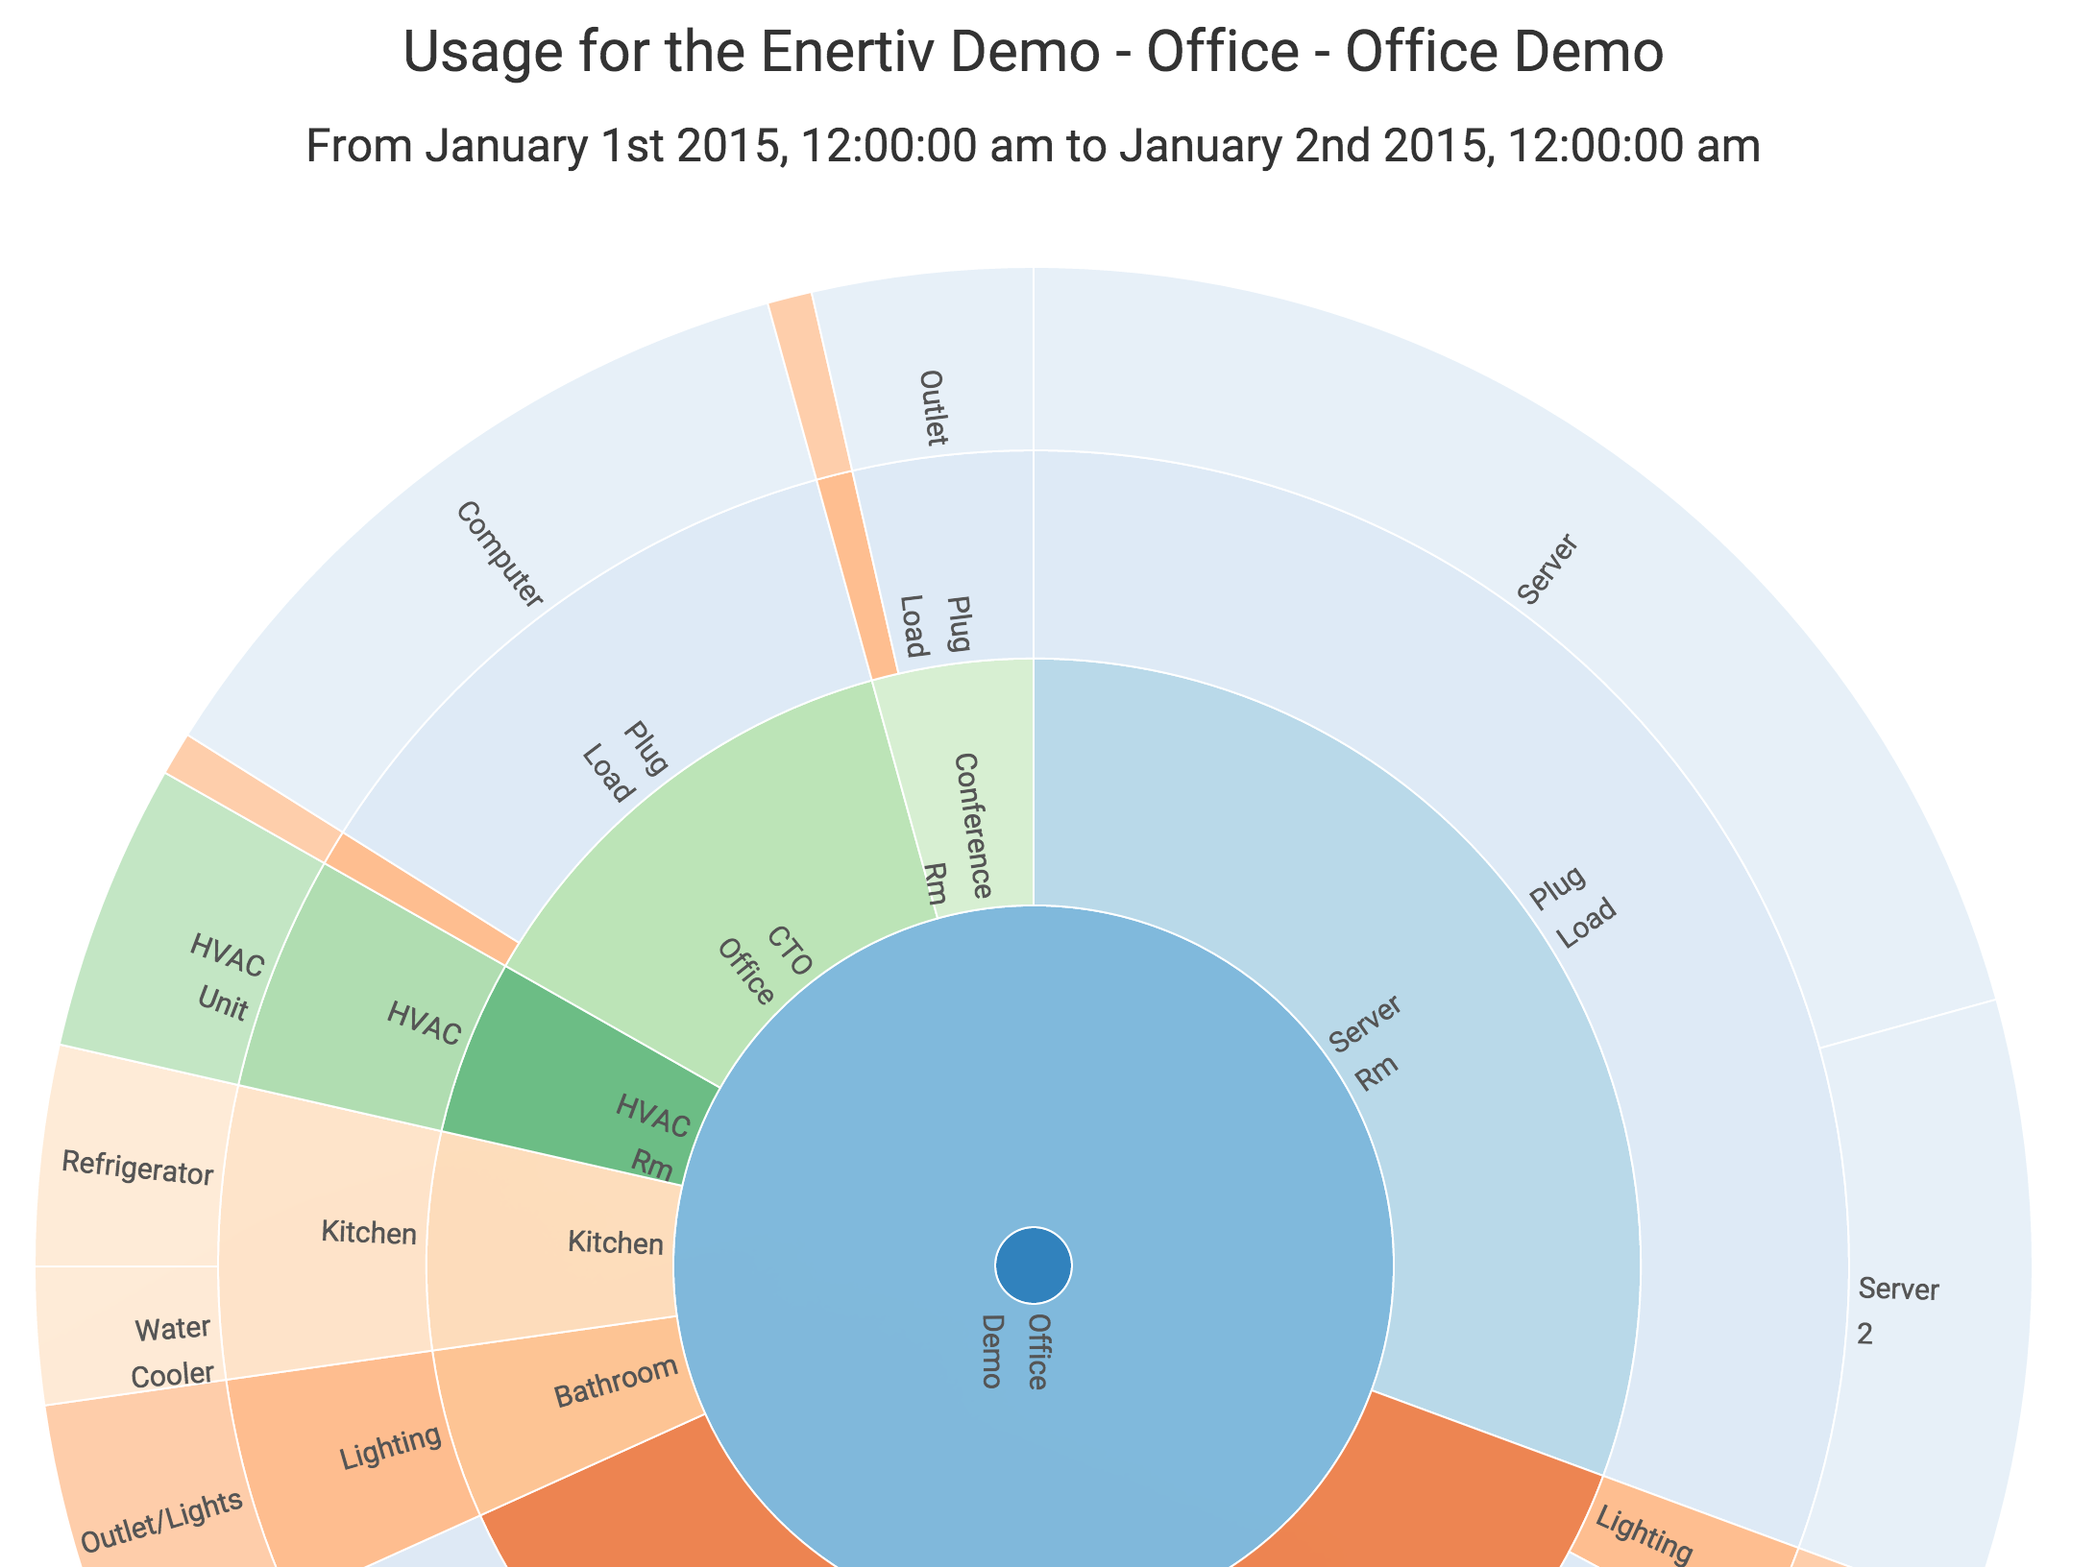
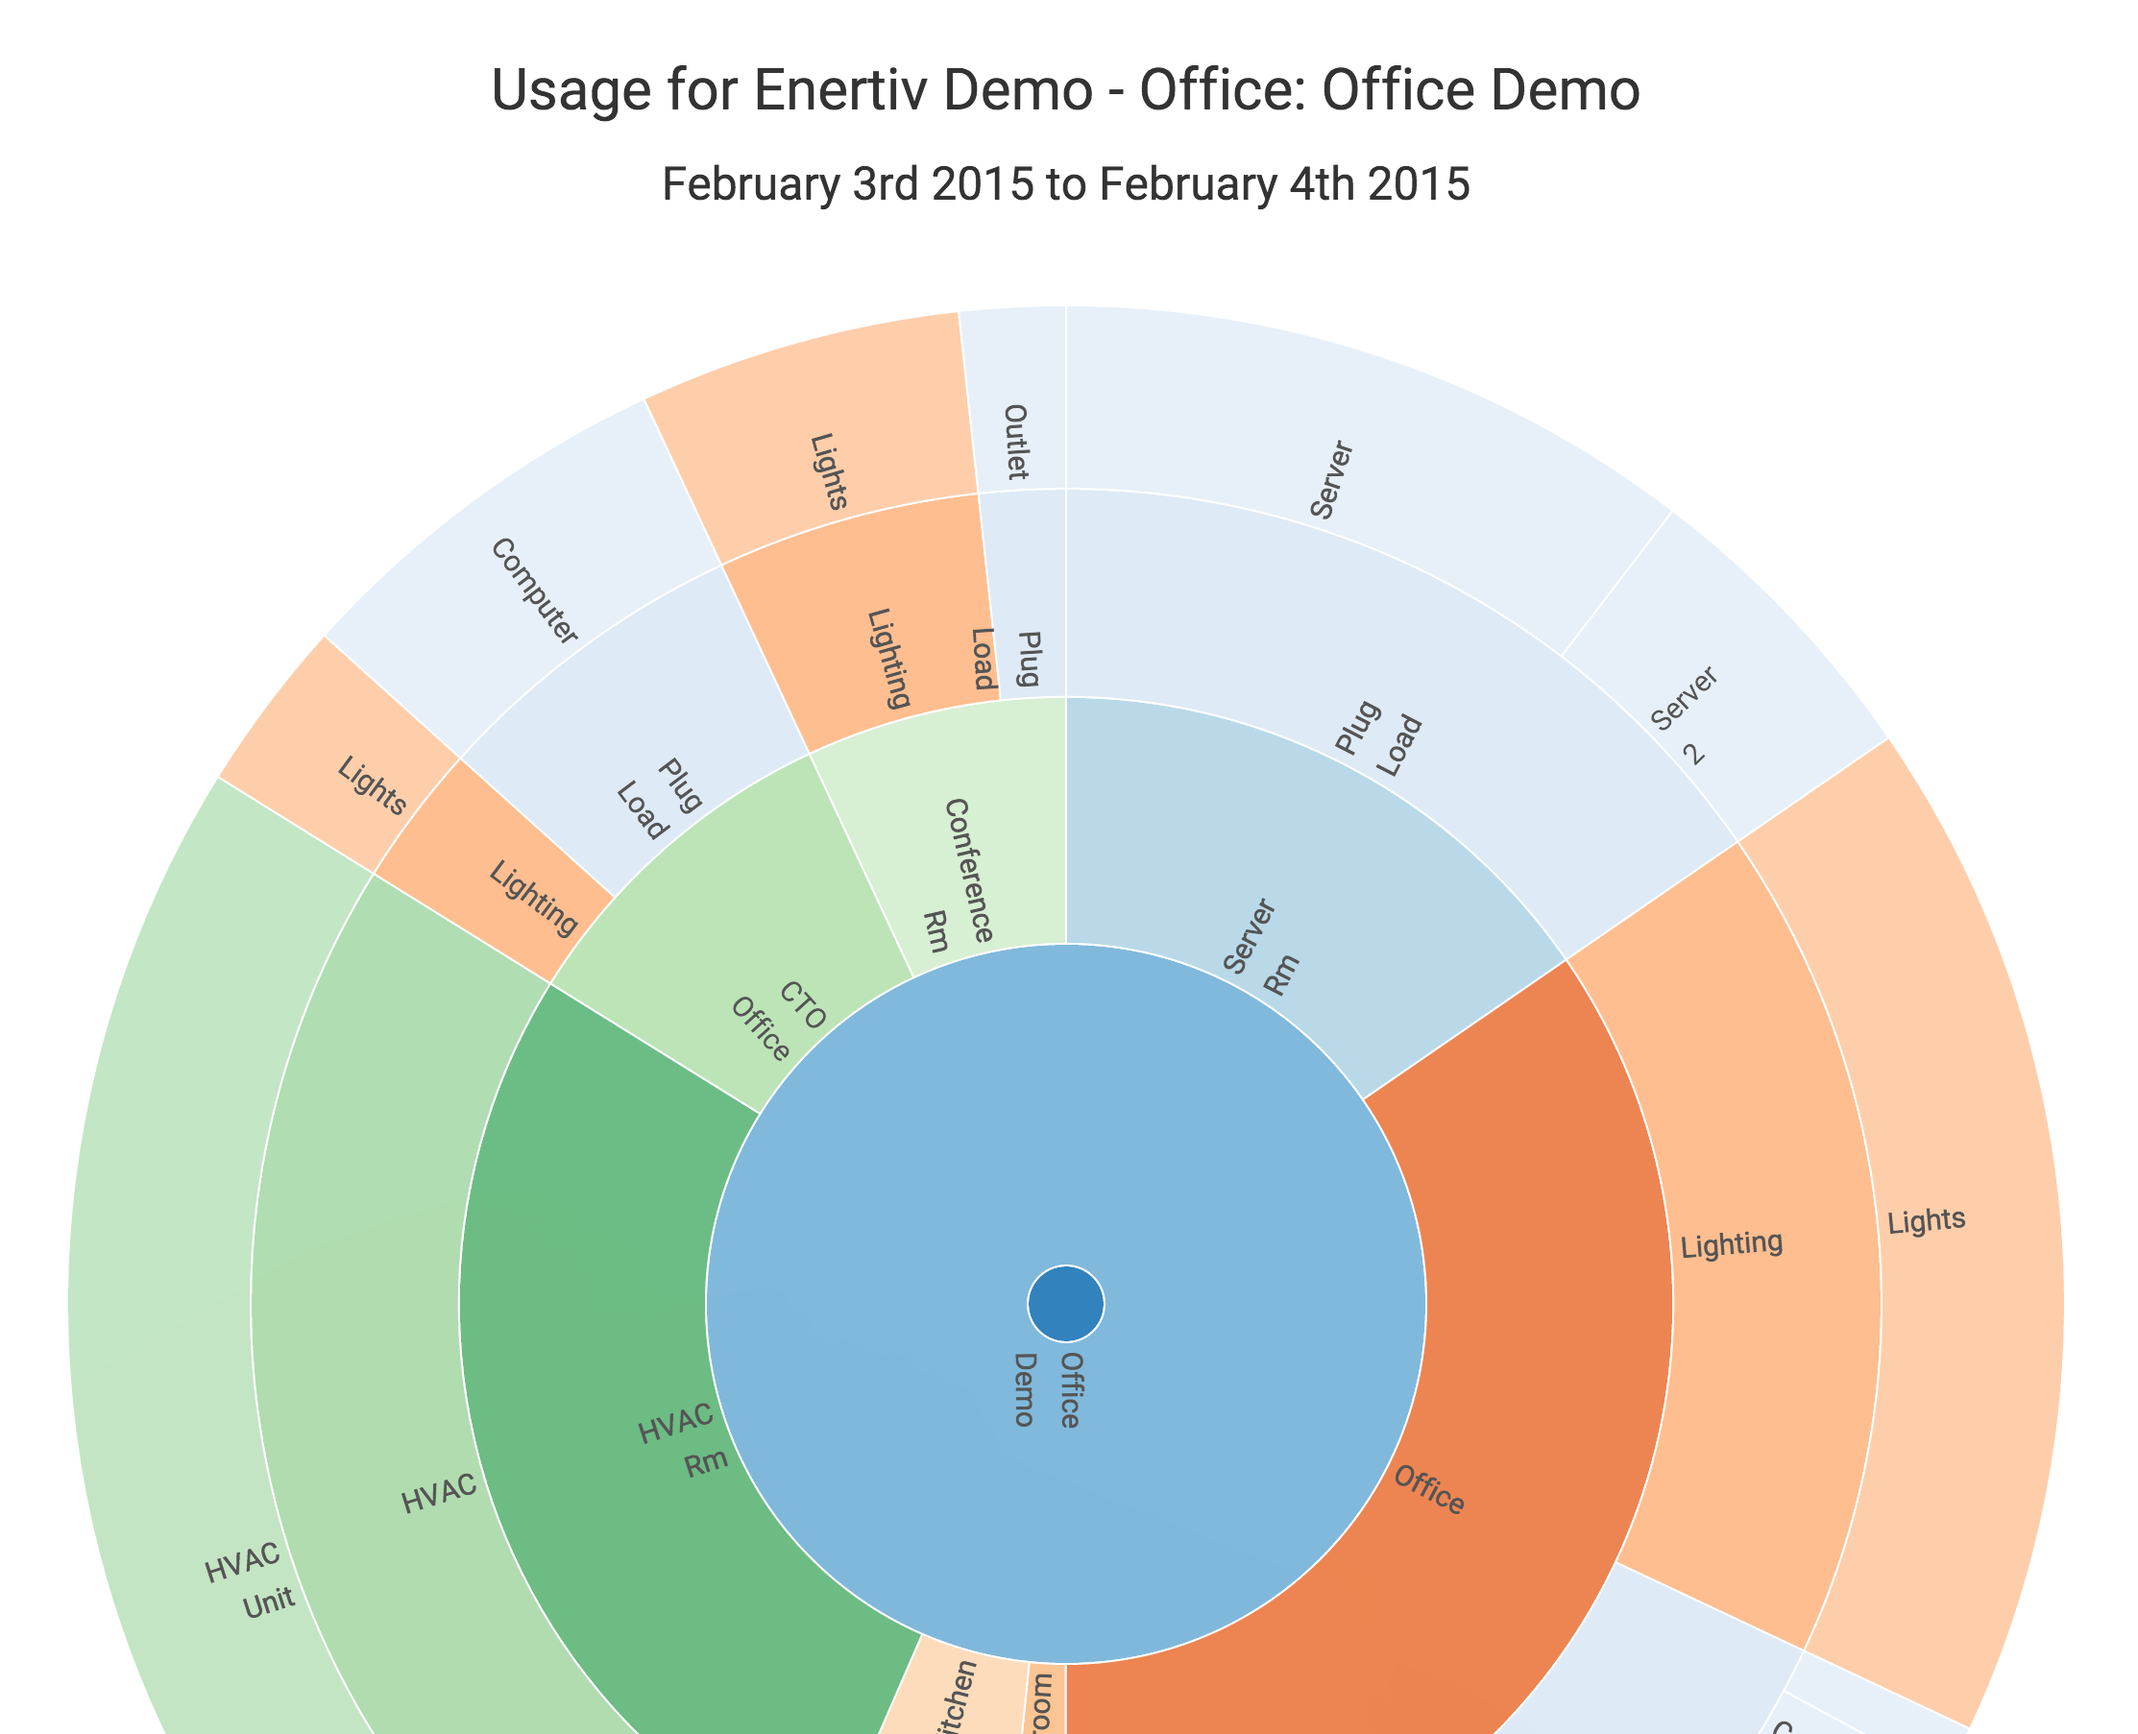
cosmetic changes

diff --git a/templates/index.html b/templates/index.html
@@ -44,8 +44,8 @@
 		<div class="container">
 			<div class="well center" >
 				<div>
-					<h2>Usage for the <span id="clientName"></span> - <span id="locationName"></span></h2>
-					<h3>From <span id="fromTime"></span> to <span id="toTime"></span></h3>
+					<h2>Usage for <span id="clientName"></span>: <span id="locationName"></span></h2>
+					<h3><span id="fromTime"></span> to <span id="toTime"></span></h3>
 				</div>
 				<div id="graph">
 	<!-- 				<form>
@@ -55,7 +55,7 @@
 				</div>
 				<div class="left">
 					<h3>Directions</h3>
-					<p>Click on a partition to zoom in and click the center to go back a level.  Hover over text to get kWh info.</p>
+					<p>Click on a partition to zoom in and click the center to zoom out.  Hover over text to get energy consumption info.</p>
 				</div>
 				</div>
 			<script type="text/javascript" data-toggle="tooltip" title="hats" src="{{ url_for('static', filename='js/demo.js') }}"></script>

diff --git a/static/js/demo.js b/static/js/demo.js
@@ -9,7 +9,7 @@ var today = moment(),
 	location_data_obj = {};
 
 function readableDate(dateString){
-	return moment(dateString).format('MMMM Do YYYY, h:mm:ss a')
+	return moment(dateString).format('MMMM Do YYYY')
 }
 
 function generateURI(location_uuid){
